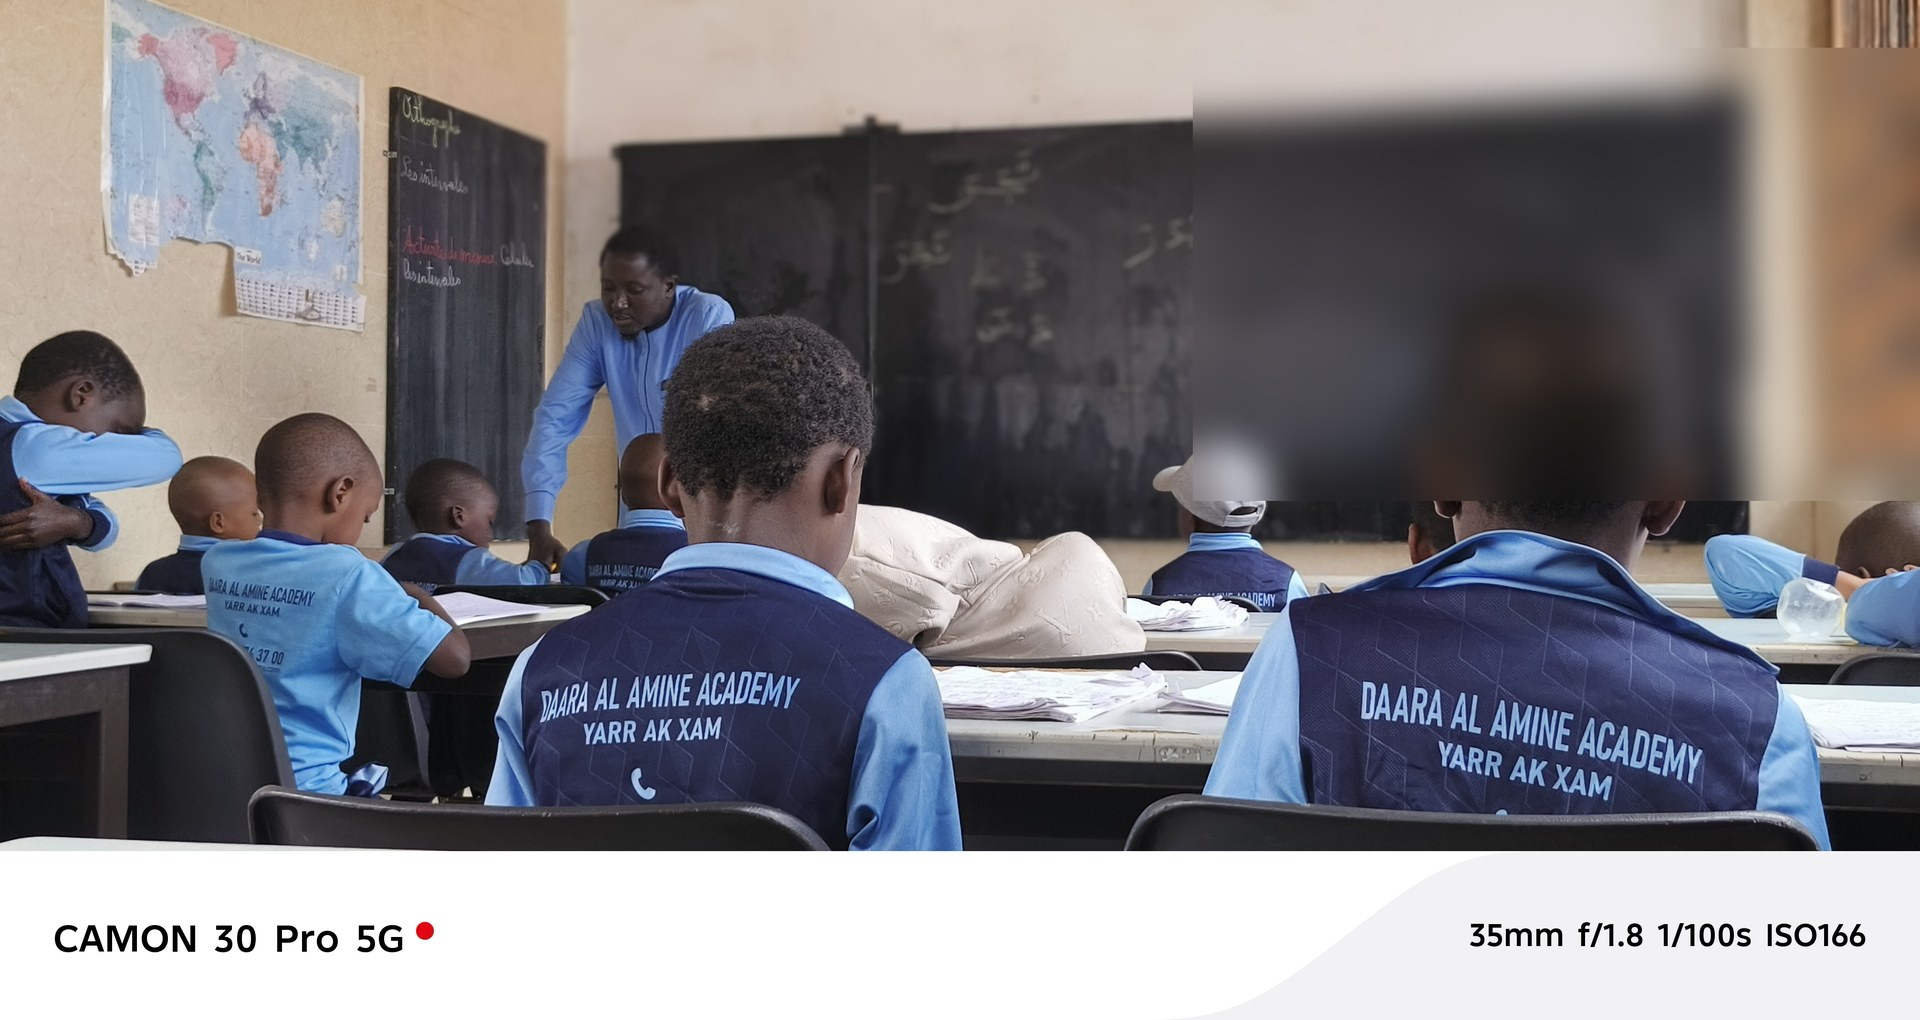
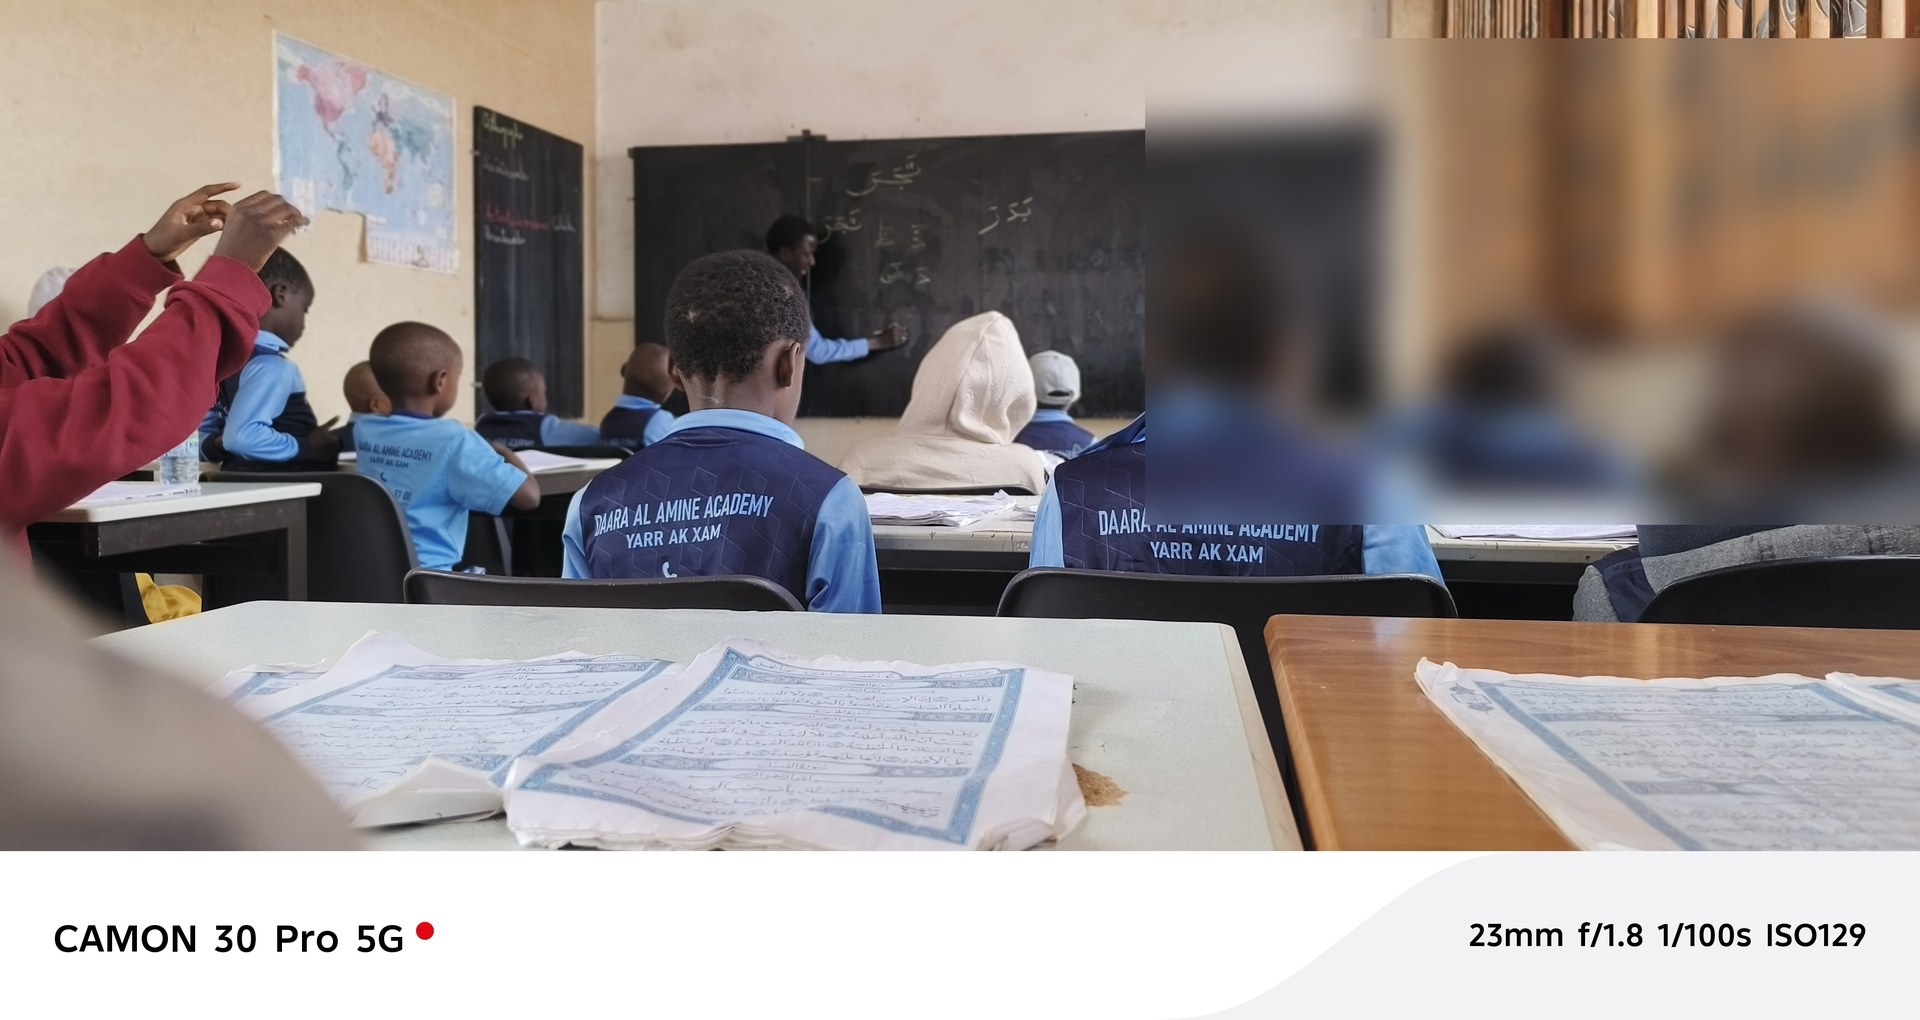
feat: new hero photo, remove Tahfiz from nav, add Camp de Vacances, move Al Mouhlisoon
- Replace hero photo with IMG_20260106_153225_284 (face blurred, 1920x1020)
- Navbar/footer: remove Tahfiz Internat, add Camp de Vacances (umbrella-beach icon)
- Footer tagline: remove Tahfiz/academique mentions
- camp-vacances.html: move Projet Al Mouhlisoon to very end, just before footer

diff --git a/camp-vacances.html b/camp-vacances.html
@@ -446,60 +446,6 @@
     </div>
   </section>
 
-  <!-- PROJET AL MOUHLISOON DE KARANG -->
-  <section class="py-16 bg-white">
-    <div class="container mx-auto px-4">
-      <div class="max-w-5xl mx-auto">
-        <div class="text-center mb-12">
-          <span class="inline-block bg-amber-100 text-amber-700 px-4 py-1.5 rounded-full text-xs font-bold uppercase tracking-wider mb-3">
-            <i class="fas fa-map-marker-alt mr-1"></i> Karang · Sénégal
-          </span>
-          <h2 class="text-3xl md:text-4xl font-extrabold text-gray-900 mb-2">Projet Al Mouhlisoon de Karang</h2>
-          <p class="arabic-text text-2xl text-primary mb-3">المخلصون</p>
-          <p class="text-gray-600 max-w-2xl mx-auto">Un projet humanitaire et éducatif porté par Al Amine Academy au profit des populations de Karang — une initiative qui implique directement nos campeurs.</p>
-        </div>
-
-        <div class="bg-gradient-to-br from-primary-dark to-teal-800 rounded-3xl p-8 md:p-12 text-white mb-8 relative overflow-hidden">
-          <div class="absolute top-0 right-0 w-80 h-80 bg-white/5 rounded-full -mr-40 -mt-40"></div>
-          <div class="absolute bottom-0 left-0 w-64 h-64 bg-secondary/10 rounded-full -ml-32 -mb-32"></div>
-          <div class="relative z-10 grid md:grid-cols-2 gap-10 items-center">
-            <div>
-              <h3 class="text-2xl font-extrabold mb-4">«&nbsp;Les Sincères&nbsp;» — au service de la communauté</h3>
-              <p class="text-white/85 leading-relaxed text-sm mb-5">Le Projet Al Mouhlisoon est une initiative d'Al Amine Academy en faveur des communautés les plus éloignées du Sénégal. À travers des activités de collecte, de sensibilisation et d'aide directe, nos élèves s'impliquent concrètement dans l'amélioration des conditions de vie à Karang.</p>
-              <ul class="space-y-3 text-sm">
-                <li class="flex items-start gap-3"><i class="fas fa-book-open text-secondary mt-0.5"></i><span>Soutien à l'éducation coranique dans les daaras locaux</span></li>
-                <li class="flex items-start gap-3"><i class="fas fa-hand-holding-heart text-secondary mt-0.5"></i><span>Distribution de fournitures et de matériel scolaire</span></li>
-                <li class="flex items-start gap-3"><i class="fas fa-mosque text-secondary mt-0.5"></i><span>Participation à des projets de réhabilitation de mosquées</span></li>
-                <li class="flex items-start gap-3"><i class="fas fa-users text-secondary mt-0.5"></i><span>Renforcement des liens inter-communautés entre élèves</span></li>
-              </ul>
-            </div>
-            <div class="grid grid-cols-2 gap-4">
-              <div class="bg-white/10 backdrop-blur-sm rounded-2xl p-5 text-center border border-white/10">
-                <div class="text-2xl font-extrabold text-secondary mb-1">Karang</div>
-                <p class="text-xs text-white/60 uppercase tracking-wider">Localité cible</p>
-              </div>
-              <div class="bg-white/10 backdrop-blur-sm rounded-2xl p-5 text-center border border-white/10">
-                <div class="text-3xl font-extrabold text-secondary mb-1">100%</div>
-                <p class="text-xs text-white/60 uppercase tracking-wider">Bénévolat</p>
-              </div>
-              <div class="bg-white/10 backdrop-blur-sm rounded-2xl p-5 text-center border border-white/10 col-span-2">
-                <div class="arabic-text text-2xl font-bold text-secondary mb-1">المخلصون</div>
-                <p class="text-xs text-white/60 uppercase tracking-wider">Les Sincères</p>
-              </div>
-            </div>
-          </div>
-        </div>
-
-        <div class="bg-amber-50 border border-amber-200 rounded-2xl p-5 text-center">
-          <p class="text-sm text-amber-900">
-            <i class="fas fa-info-circle mr-1 text-amber-600"></i>
-            Le Projet Al Mouhlisoon de Karang est intégré au programme du camp — chaque participant contribue à cet effort collectif de solidarité islamique.
-          </p>
-        </div>
-      </div>
-    </div>
-  </section>
-
   <!-- COMMENT S'INSCRIRE -->
   <section id="inscription" class="py-16 bg-gradient-to-b from-gray-50 to-white">
     <div class="container mx-auto px-4">
@@ -642,6 +588,58 @@
       </a>
     </div>
   </div>
+
+  <!-- PROJET AL MOUHLISOON DE KARANG -->
+  <section class="py-16 bg-white">
+    <div class="container mx-auto px-4">
+      <div class="max-w-5xl mx-auto">
+        <div class="text-center mb-12">
+          <span class="inline-block bg-amber-100 text-amber-700 px-4 py-1.5 rounded-full text-xs font-bold uppercase tracking-wider mb-3">
+            <i class="fas fa-map-marker-alt mr-1"></i> Karang · Sénégal
+          </span>
+          <h2 class="text-3xl md:text-4xl font-extrabold text-gray-900 mb-2">Projet Al Mouhlisoon de Karang</h2>
+          <p class="arabic-text text-2xl text-primary mb-3">المخلصون</p>
+          <p class="text-gray-600 max-w-2xl mx-auto">Un projet humanitaire et éducatif porté par Al Amine Academy au profit des populations de Karang — une initiative qui implique directement nos campeurs.</p>
+        </div>
+        <div class="bg-gradient-to-br from-primary-dark to-teal-800 rounded-3xl p-8 md:p-12 text-white mb-8 relative overflow-hidden">
+          <div class="absolute top-0 right-0 w-80 h-80 bg-white/5 rounded-full -mr-40 -mt-40"></div>
+          <div class="absolute bottom-0 left-0 w-64 h-64 bg-secondary/10 rounded-full -ml-32 -mb-32"></div>
+          <div class="relative z-10 grid md:grid-cols-2 gap-10 items-center">
+            <div>
+              <h3 class="text-2xl font-extrabold mb-4">«&nbsp;Les Sincères&nbsp;» — au service de la communauté</h3>
+              <p class="text-white/85 leading-relaxed text-sm mb-5">Le Projet Al Mouhlisoon est une initiative d'Al Amine Academy en faveur des communautés les plus éloignées du Sénégal. À travers des activités de collecte, de sensibilisation et d'aide directe, nos élèves s'impliquent concrètement dans l'amélioration des conditions de vie à Karang.</p>
+              <ul class="space-y-3 text-sm">
+                <li class="flex items-start gap-3"><i class="fas fa-book-open text-secondary mt-0.5"></i><span>Soutien à l'éducation coranique dans les daaras locaux</span></li>
+                <li class="flex items-start gap-3"><i class="fas fa-hand-holding-heart text-secondary mt-0.5"></i><span>Distribution de fournitures et de matériel scolaire</span></li>
+                <li class="flex items-start gap-3"><i class="fas fa-mosque text-secondary mt-0.5"></i><span>Participation à des projets de réhabilitation de mosquées</span></li>
+                <li class="flex items-start gap-3"><i class="fas fa-users text-secondary mt-0.5"></i><span>Renforcement des liens inter-communautés entre élèves</span></li>
+              </ul>
+            </div>
+            <div class="grid grid-cols-2 gap-4">
+              <div class="bg-white/10 backdrop-blur-sm rounded-2xl p-5 text-center border border-white/10">
+                <div class="text-2xl font-extrabold text-secondary mb-1">Karang</div>
+                <p class="text-xs text-white/60 uppercase tracking-wider">Localité cible</p>
+              </div>
+              <div class="bg-white/10 backdrop-blur-sm rounded-2xl p-5 text-center border border-white/10">
+                <div class="text-3xl font-extrabold text-secondary mb-1">100%</div>
+                <p class="text-xs text-white/60 uppercase tracking-wider">Bénévolat</p>
+              </div>
+              <div class="bg-white/10 backdrop-blur-sm rounded-2xl p-5 text-center border border-white/10 col-span-2">
+                <div class="arabic-text text-2xl font-bold text-secondary mb-1">المخلصون</div>
+                <p class="text-xs text-white/60 uppercase tracking-wider">Les Sincères</p>
+              </div>
+            </div>
+          </div>
+        </div>
+        <div class="bg-amber-50 border border-amber-200 rounded-2xl p-5 text-center">
+          <p class="text-sm text-amber-900">
+            <i class="fas fa-info-circle mr-1 text-amber-600"></i>
+            Le Projet Al Mouhlisoon de Karang est intégré au programme du camp — chaque participant contribue à cet effort collectif de solidarité islamique.
+          </p>
+        </div>
+      </div>
+    </div>
+  </section>
 
   <div id="aaa-footer"></div>
   <script src="translations.js?v=20260429b"></script>

diff --git a/assets/js/site-shell.js b/assets/js/site-shell.js
@@ -33,10 +33,13 @@
     +         '<div class="relative group">'
     +           '<button type="button" data-route="programs" class="nav-link hover:text-primary inline-flex items-center gap-1" data-i18n="menu.programs">Programmes <i class="fas fa-chevron-down text-[10px] transition-transform group-hover:rotate-180"></i></button>'
     +           '<div class="absolute left-1/2 -translate-x-1/2 mt-3 w-72 bg-white rounded-2xl shadow-xl opacity-0 invisible group-hover:opacity-100 group-hover:visible transition-all transform translate-y-1 group-hover:translate-y-0 border border-slate-100 overflow-hidden">'
-    +             '<a href="' + ASSET_PREFIX + 'programme-internat.html"          class="flex items-center gap-3 px-4 py-3 hover:bg-primary/5"><div class="w-9 h-9 bg-primary/10 rounded-lg flex items-center justify-center"><i class="fas fa-school text-primary text-sm"></i></div><div><p class="font-semibold text-slate-800 text-sm" data-i18n="programs.tahfiz">Tahfiz Internat</p><p class="text-xs text-slate-500">Coran + sport + hébergement</p></div></a>'
     +             '<a href="' + ASSET_PREFIX + 'programme-mixte.html"             class="flex items-center gap-3 px-4 py-3 hover:bg-primary/5"><div class="w-9 h-9 bg-primary/10 rounded-lg flex items-center justify-center"><i class="fas fa-balance-scale text-primary text-sm"></i></div><div><p class="font-semibold text-slate-800 text-sm" data-i18n="programs.mixed">Programme Mixte</p><p class="text-xs text-slate-500">Externat journalier</p></div></a>'
     +             '<a href="' + ASSET_PREFIX + 'programme-cours-en-ligne.html"    class="flex items-center gap-3 px-4 py-3 hover:bg-primary/5"><div class="w-9 h-9 bg-primary/10 rounded-lg flex items-center justify-center"><i class="fas fa-laptop text-primary text-sm"></i></div><div><p class="font-semibold text-slate-800 text-sm" data-i18n="programs.online">Cours en Ligne</p><p class="text-xs text-slate-500">Apprenez de chez vous</p></div></a>'
     +             '<a href="' + ASSET_PREFIX + 'programme-cours-gratuits.html"    class="flex items-center gap-3 px-4 py-3 hover:bg-secondary/5"><div class="w-9 h-9 bg-secondary/10 rounded-lg flex items-center justify-center"><i class="fas fa-gift text-secondary text-sm"></i></div><div><p class="font-semibold text-slate-800 text-sm" data-i18n="programs.free">Cours Gratuits</p><p class="text-xs text-slate-500">Accès libre pour tous</p></div></a>'
+    +             '<a href="' + ASSET_PREFIX + 'camp-vacances.html"               class="flex items-center gap-3 px-4 py-3 hover:bg-secondary/5"><div class="w-9 h-9 bg-secondary/10 rounded-lg flex items-center justify-center"><i class="fas fa-umbrella-beach text-secondary text-sm"></i></div><div><p class="font-semibold text-slate-800 text-sm">Camp de Vacances</p><p class="text-xs text-slate-500">Été 2026 · Dakar &amp; Petite Côte</p></div></a>'
+    +             '<div class="border-t border-slate-100 mx-4 my-1"></div>'
+    +             '<p class="px-4 pt-2 pb-1 text-[10px] uppercase tracking-wider font-bold text-slate-400">Aides Sociales</p>'
+    +             '<a href="' + ASSET_PREFIX + 'aides-sociales.html"             class="flex items-center gap-3 px-4 py-3 hover:bg-primary/5"><div class="w-9 h-9 bg-teal-100 rounded-lg flex items-center justify-center"><i class="fas fa-hand-holding-heart text-primary text-sm"></i></div><div><p class="font-semibold text-slate-800 text-sm">Projet Al Moohlisoun</p><p class="text-xs text-slate-500">Aides sociales & humanitaires</p></div></a>'
     +           '</div>'
     +         '</div>'
     +         '<a href="' + ASSET_PREFIX + 'admission.html"      data-route="admission"    class="nav-link hover:text-primary" data-i18n="menu.admission">Admission</a>'
@@ -65,10 +68,12 @@
 
     +     '<div id="aaa-mobile-menu" class="hidden lg:hidden pb-4 pt-2 border-t border-slate-200 text-slate-700">'
     +       '<a href="' + ASSET_PREFIX + 'index.html"          data-route="index"        class="block py-2" data-i18n="menu.home">Accueil</a>'
-    +       '<a href="' + ASSET_PREFIX + 'programme-internat.html"          data-route="programs" class="block py-2 pl-4 text-sm" data-i18n="programs.tahfiz">Tahfiz Internat</a>'
     +       '<a href="' + ASSET_PREFIX + 'programme-mixte.html"             data-route="programs" class="block py-2 pl-4 text-sm" data-i18n="programs.mixed">Programme Mixte</a>'
     +       '<a href="' + ASSET_PREFIX + 'programme-cours-en-ligne.html"    data-route="programs" class="block py-2 pl-4 text-sm" data-i18n="programs.online">Cours en Ligne</a>'
     +       '<a href="' + ASSET_PREFIX + 'programme-cours-gratuits.html"    data-route="programs" class="block py-2 pl-4 text-sm" data-i18n="programs.free">Cours Gratuits</a>'
+    +       '<a href="' + ASSET_PREFIX + 'camp-vacances.html"               data-route="programs" class="block py-2 pl-4 text-sm"><i class="fas fa-umbrella-beach text-secondary mr-2 text-xs"></i>Camp de Vacances</a>'
+    +       '<p class="pl-4 pt-2 pb-1 text-[10px] uppercase tracking-wider font-bold text-slate-400">Aides Sociales</p>'
+    +       '<a href="' + ASSET_PREFIX + 'aides-sociales.html"             data-route="programs" class="block py-2 pl-8 text-sm"><i class="fas fa-hand-holding-heart text-primary mr-2 text-xs"></i>Projet Al Moohlisoun</a>'
     +       '<a href="' + ASSET_PREFIX + 'admission.html"      data-route="admission"    class="block py-2" data-i18n="menu.admission">Admission</a>'
     +       '<a href="' + ASSET_PREFIX + 'a-propos.html"       data-route="about"        class="block py-2" data-i18n="menu.about">À Propos</a>'
     +       '<a href="' + ASSET_PREFIX + 'galerie.html"        data-route="gallery"      class="block py-2" data-i18n="menu.gallery">Galerie</a>'
@@ -102,7 +107,7 @@
     +             '<p class="text-[10px] uppercase tracking-[0.18em] text-secondary font-semibold">Academy · Dakar</p>'
     +           '</div>'
     +         '</a>'
-    +         '<p class="text-sm leading-relaxed mb-4" data-i18n="footer.tagline">École coranique moderne à Dakar : Tahfiz, académique bilingue et épanouissement personnel.</p>'
+    +         '<p class="text-sm leading-relaxed mb-4" data-i18n="footer.tagline">École coranique moderne à Dakar — Coran, sports et épanouissement personnel.</p>'
     +         '<div class="flex gap-3">'
     +           '<a href="https://www.facebook.com/DaaraAlAmineAcademy" target="_blank" rel="noopener" aria-label="Facebook" class="w-9 h-9 rounded-lg bg-slate-800 hover:bg-secondary inline-flex items-center justify-center transition-colors"><i class="fab fa-facebook-f"></i></a>'
     +           '<a href="https://wa.me/221777743700" target="_blank" rel="noopener" aria-label="WhatsApp" class="w-9 h-9 rounded-lg bg-slate-800 hover:bg-secondary inline-flex items-center justify-center transition-colors"><i class="fab fa-whatsapp"></i></a>'
@@ -127,11 +132,12 @@
     +       '<div>'
     +         '<h4 class="text-white font-bold mb-4 text-sm uppercase tracking-wider" data-i18n="footer.programs">Nos programmes</h4>'
     +         '<ul class="space-y-2 text-sm">'
-    +           '<li><a href="' + ASSET_PREFIX + 'programme-internat.html"          data-i18n="programs.tahfiz">Tahfiz Internat</a></li>'
     +           '<li><a href="' + ASSET_PREFIX + 'programme-mixte.html"             data-i18n="programs.mixed">Programme Mixte</a></li>'
     +           '<li><a href="' + ASSET_PREFIX + 'programme-cours-en-ligne.html"    data-i18n="programs.online">Cours en Ligne</a></li>'
     +           '<li><a href="' + ASSET_PREFIX + 'programme-cours-gratuits.html"    data-i18n="programs.free">Cours Gratuits</a></li>'
+    +           '<li><a href="' + ASSET_PREFIX + 'camp-vacances.html"><i class="fas fa-umbrella-beach mr-1 text-xs"></i> Camp de Vacances</a></li>'
     +           '<li><a href="' + ASSET_PREFIX + 'conferences.html">Conférences &amp; Hajj</a></li>'
+    +           '<li><a href="' + ASSET_PREFIX + 'aides-sociales.html"><i class="fas fa-hand-holding-heart mr-1 text-xs"></i> Aides Sociales</a></li>'
     +         '</ul>'
     +       '</div>'
 
@@ -171,7 +177,7 @@
     if (/temoignages\.html$/.test(path)) return 'testimonials';
     if (/blog\.html$/.test(path)) return 'blog';
     if (/contact\.html$/.test(path)) return 'contact';
-    if (/programme-/.test(path) || /conferences\.html$/.test(path)) return 'programs';
+    if (/programme-/.test(path) || /conferences\.html$/.test(path) || /aides-sociales\.html$/.test(path)) return 'programs';
     return 'index';
   }
 
